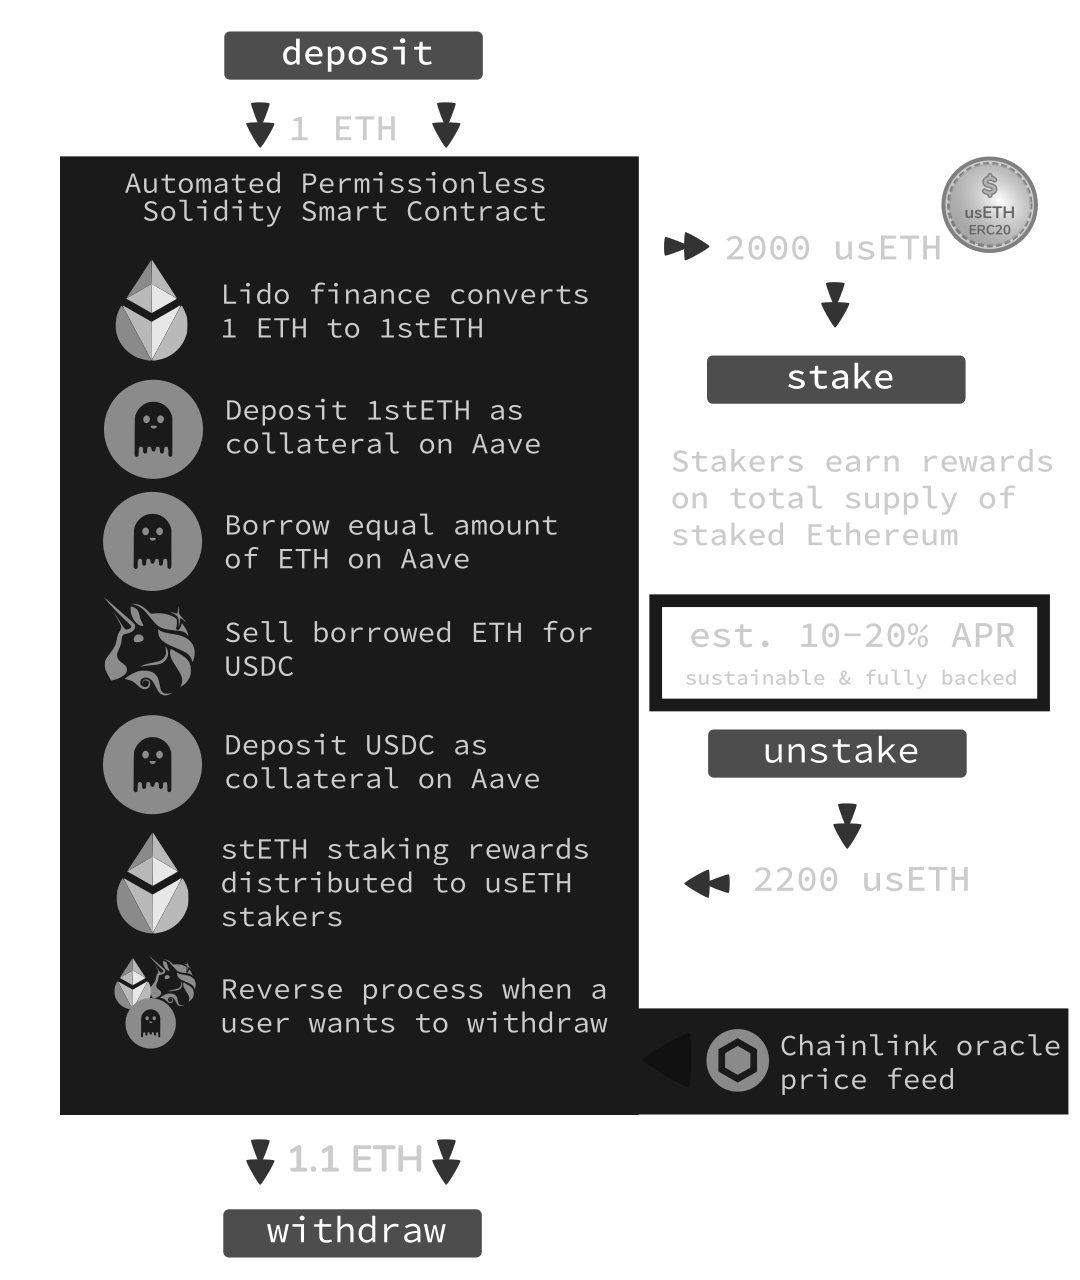
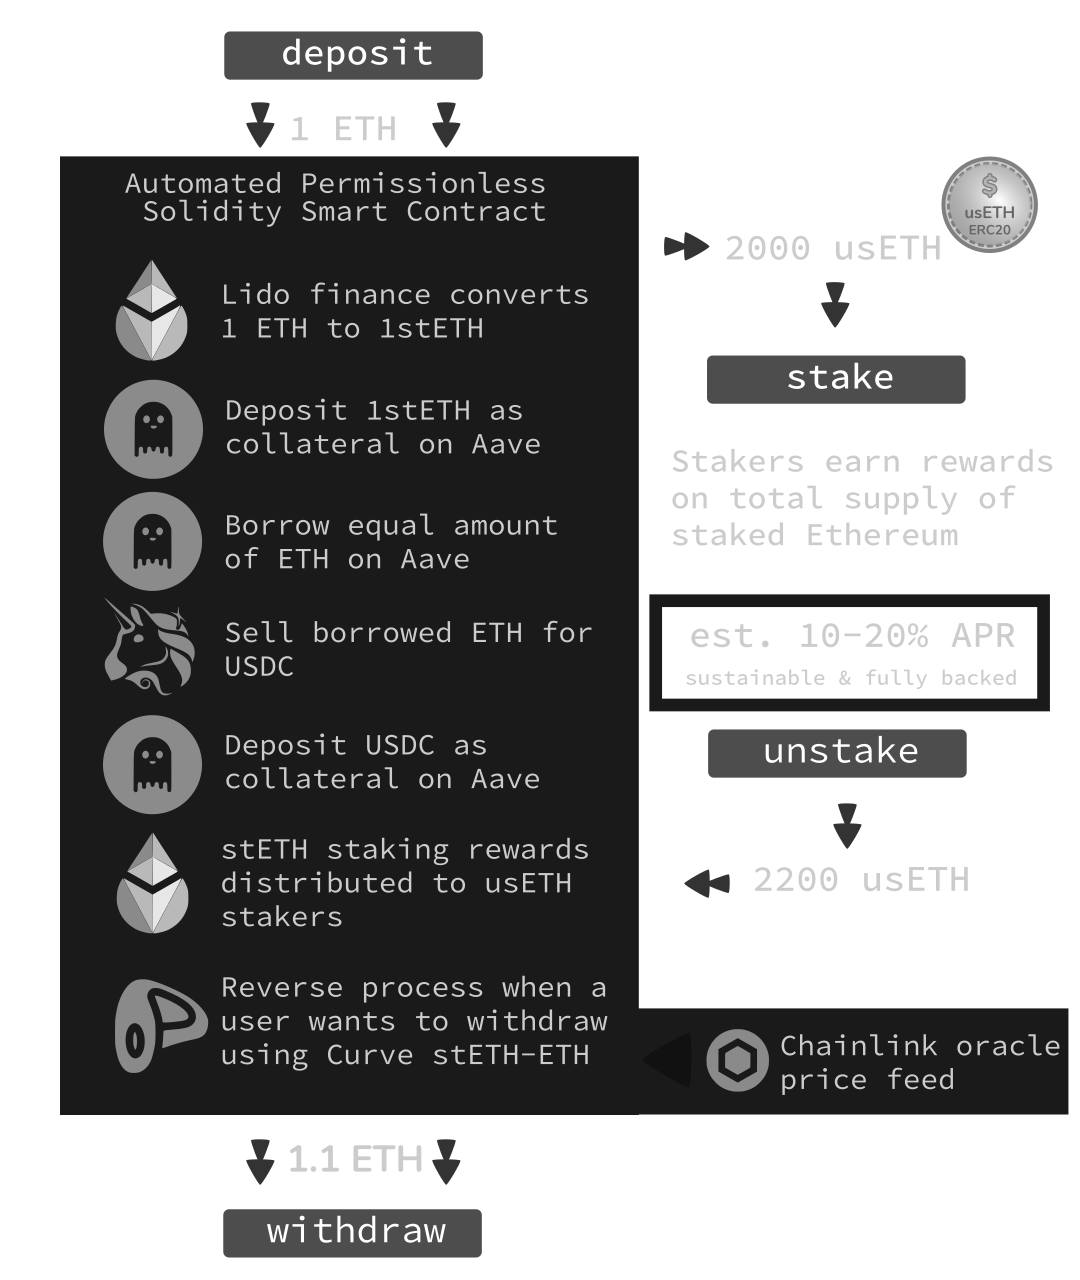
Integrate Curve stETH-ETH pool for withdrawals

Changed region(s): [[0.0917, 0.75, 0.55, 0.8438]]

diff --git a/docs/index.html b/docs/index.html
@@ -53,7 +53,7 @@
       </div>
       <div style="text-align: center;">
         <div style="padding: 3% 0 1% 0;">built on the lego bricks of DeFi</div>
-        <div style="opacity: 0.5;"><img src="img/lego.svg" style="width: 300px; max-width: 80%;" alt="Lido Finance, Aave, Uniswap, Chainlink" title="Lido Finance, Aave, Uniswap, Chainlink" /></div>
+        <div style="opacity: 0.5;"><img src="img/lego_bw.png" style="width: 300px; max-width: 80%;" alt="Lido Finance, Aave, Uniswap, Chainlink, Curve" title="Lido Finance, Aave, Uniswap, Chainlink, Curve" /></div>
       </div>
       <div style="text-align: center; padding: 5% 0 0 0">
         <a href="https://github.com/jamesbachini/useth" target="_blank" style="color: #CCC;">github</a> | 
